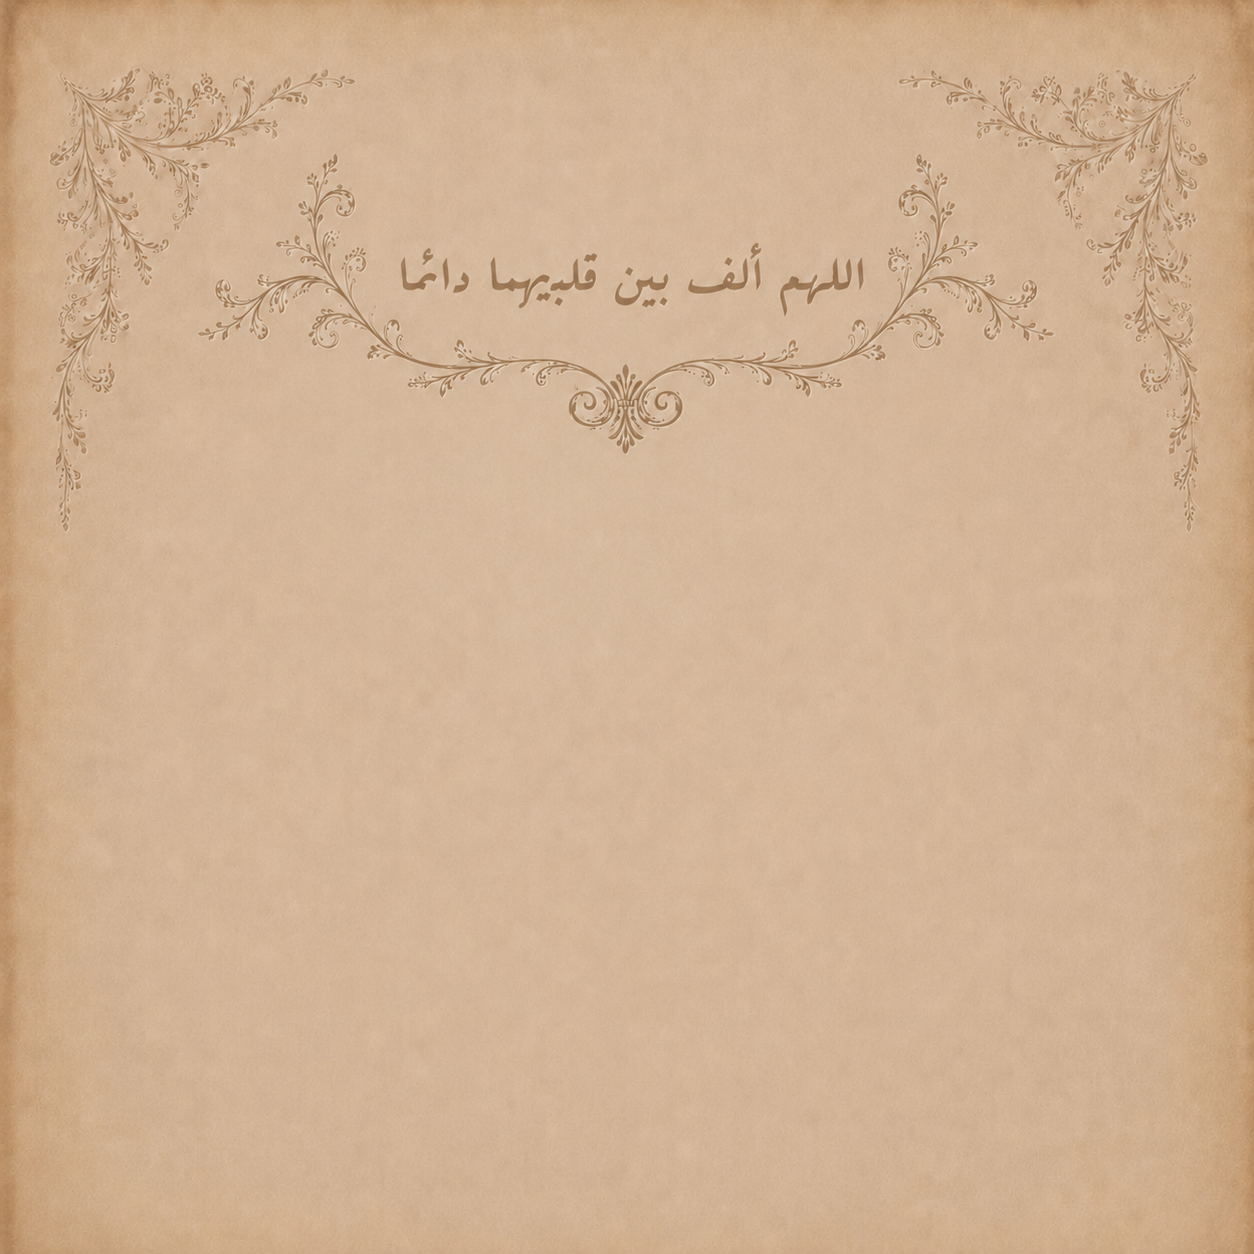
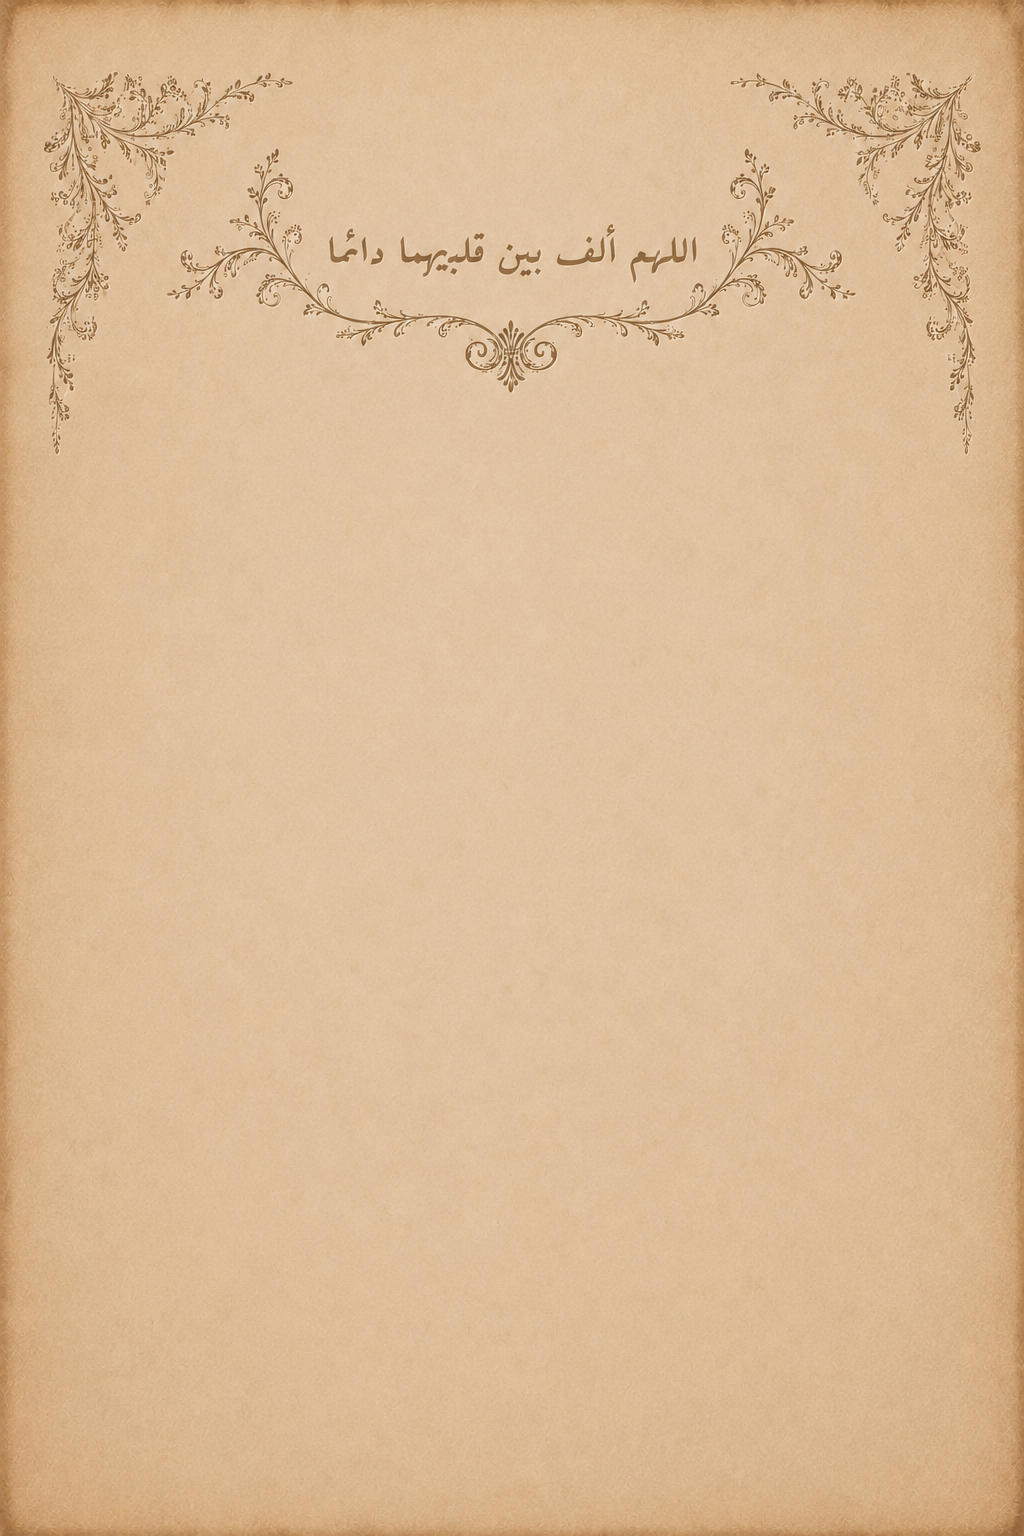
Add files via upload

diff --git a/main.html b/main.html
@@ -243,7 +243,7 @@
 
     iframe{
       width:100%;
-  height:250px;
+  height:500px;
   border:0;
     }
 
@@ -346,7 +346,7 @@
       }
 
       iframe{
-        height:75px;
+        height:280px;
       }
 
     }
@@ -378,7 +378,7 @@
   <!-- ================= LOCATION ================= -->
 
   <section class="location hidden">
-<br><br>
+<br><br><br><br><br><br>
 
 
     <div class="location-text">